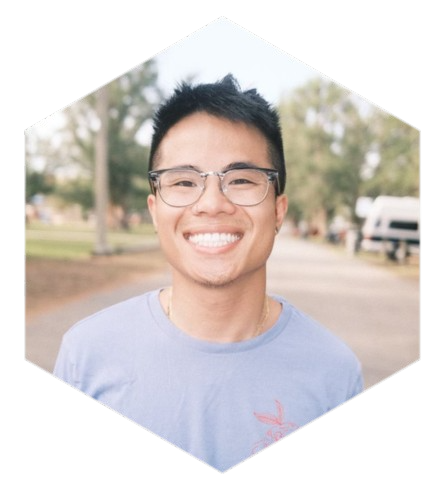
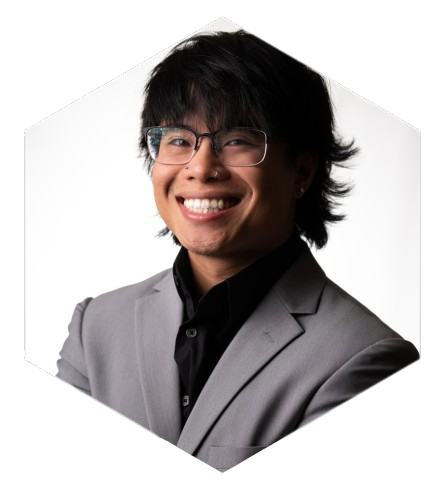
Change Photo & Credit name

diff --git a/index.html b/index.html
@@ -1,63 +1,3 @@
-<!-- <?php
-if (isset($_POST["submit"])) {
-    // Retrieve form data
-    $name = $_POST["name"];
-    $email = $_POST["email"];
-    $message = $_POST["message"];
-
-    // Set up email parameters
-    $to = "rajansharma681@gmail.com"; // Change this to your email address
-    $subject = "New Contact Form Submission";
-    $headers = "From: $email";
-
-    // Compose the email message
-    $email_message = "Name: $name\n";
-    $email_message .= "Email: $email\n";
-    $email_message .= "Message:\n$message";
-
-    // Send the email
-    $success = mail($to, $subject, $email_message, $headers);
-
-    if ($success) {
-        echo "Thank you for your message. We will get back to you soon!";
-        die();
-    } else {
-        echo "Oops! Something went wrong. Please try again later.";
-    }
-}
-
-if (isset($_POST["submit2"])) {
-    // Retrieve form data
-    $name = $_POST["name"];
-    $email = $_POST["email"];
-    $phone = $_POST["phone"];
-    $message = $_POST["message"];
-
-    // Set up email parameters
-    $to = "rajansharma681@gmail.com"; // Change this to your email address
-    $subject = "New Contact Form Submission";
-    $headers = "From: $email";
-
-    // Compose the email message
-    $email_message = "Name: $name\n";
-    $email_message .= "Email: $email\n";
-    $email_message .= "phone: $phone\n";
-    $email_message .= "Message:\n$message";
-
-    // Send the email
-    $success = mail($to, $subject, $email_message, $headers);
-
-    if ($success) {
-        echo "Thank you for your message. We will get back to you soon!";
-        
-    } else {
-        echo "Oops! Something went wrong. Please try again later.";
-        exit();
-    }
-}
-?> -->
-
-
 <!DOCTYPE html>
 <html lang="en">
 <meta http-equiv="content-type" content="text/html;charset=utf-8" />
@@ -81,12 +21,12 @@ if (isset($_POST["submit2"])) {
   <!--================================
         PRELOADER START
     =================================-->
-  <!-- <div class="preloader">
+  <div class="preloader">
       <svg viewBox="0 0 1000 1000" preserveAspectRatio="none">
         <path id="svg" d="M0,1005S175,995,500,995s500,5,500,5V0H0Z"></path>
       </svg>
       <h5 class="preloader-text">Loading</h5>
-    </div> -->
+    </div>
   <!--================================
         PRELOADER END
     =================================-->
@@ -146,11 +86,12 @@ if (isset($_POST["submit2"])) {
       <div class="tf__design_form offcanvas_form">
         <div class="offcanvas_contact_form mt-0">
           <h4 class="offcanvas_title">Get In Touch</h4>
-          <form action="<?php $_SERVER['PHP_SELF'];?>" method="post">
-        <input type="text" name="name" placeholder="Your Name" aria-autocomplete="list" required />
-        <input type="email" name="email" placeholder="Your Email" required />
+          <form action="https://formspree.io/f/mvojnwrd"
+          method="POST">
+        <input type="text" name="Name" placeholder="Your Name" aria-autocomplete="list" required /> 
+        <input type="email" name="Email" placeholder="Your Email" required />
         <textarea name="message" rows="4" placeholder="Message" required></textarea>
-        <button type="submit" class="common_btn" name="submit">Submit now</button>
+        <button type="submit" class="common_btn">Submit now</button>
     </form>
         </div>
       </div>
@@ -443,12 +384,13 @@ if (isset($_POST["submit2"])) {
             <h2 class="has-animation">GET TOUCH ME?</h2>
             <a href="https://www.linkedin.com/in/davis-tran-068731210?lipi=urn%3Ali%3Apage%3Ad_flagship3_profile_view_base_contact_details%3BnFZ9JJ5GSM6KEjv2ISqREQ%3D%3D"
               style="width: 10%;" target="_blank"><img src="svg/linkedin.svg" alt="" class="img-fluid svg w-100"></a>
-            <form action="<?=$_SERVER['PHP_SELF'];?>" method="post">
-              <input class="" type="text" name="name" placeholder="Your Name" />
-              <input class="" type="email" name="email" placeholder="Your Email" />
-              <input class="" type="text" name="phone" placeholder="Phone Number" />
-              <textarea class="" rows="4" name="message" placeholder="Message"></textarea>
-              <button type="submit" class="common_btn" name="submit2">Submit now</button>
+            <form action="https://formspree.io/f/mvojnwrd"
+            method="POST">
+              <input class="" type="text" name="Name" placeholder="Your Name" />
+              <input class="" type="email" name="Email" placeholder="Your Email" />
+              <input class="" type="text" name="Phone" placeholder="Phone Number" />
+              <textarea class="" rows="4" name="Message" placeholder="Message"></textarea>
+              <button type="submit" class="common_btn">Submit now</button>
             </form>
           </div>
         </div>
@@ -961,8 +903,8 @@ SUBSCRIBE END
                 <p>© DAVIS TRAN 2023 | All Rights Reserved</p>
                 <ul>
                   <li class="d-flex align-items-center">
-                    <span>Design & Develop By</span> &nbsp;<a href="https://www.fiverr.com/rajansharma626"
-                      class="text_hover_animaiton"> Rajan Sharma</a>
+                    <span>Design & Develop By</span> &nbsp;<a href="https://www.linkedin.com/in/davis-tran-068731210?lipi=urn%3Ali%3Apage%3Ad_flagship3_profile_view_base_contact_details%3BnFZ9JJ5GSM6KEjv2ISqREQ%3D%3D"
+                      class="text_hover_animaiton"> DAVIS TRAN</a>
                   </li>
                 </ul>
               </div>
